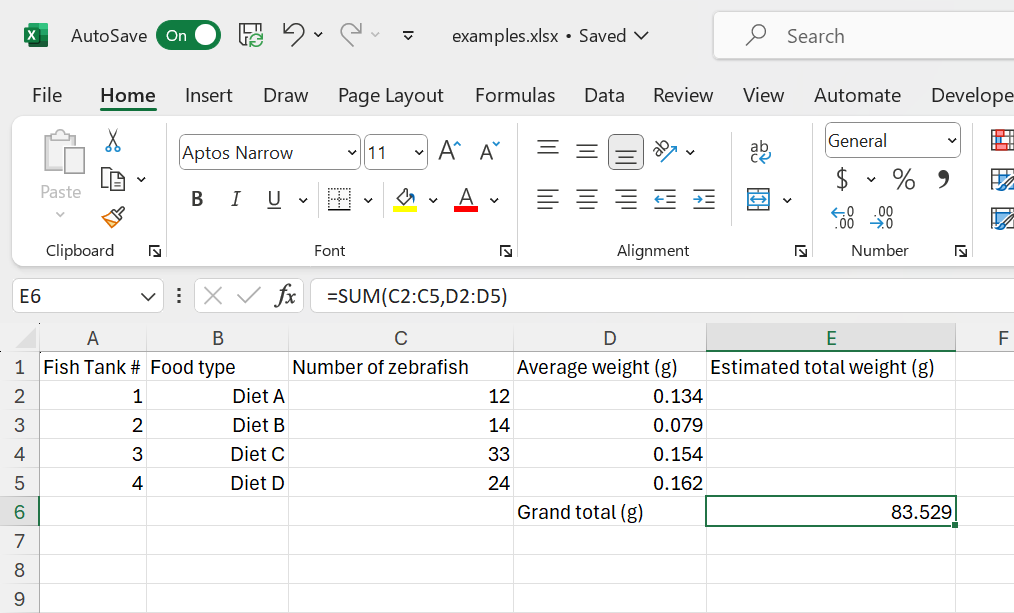
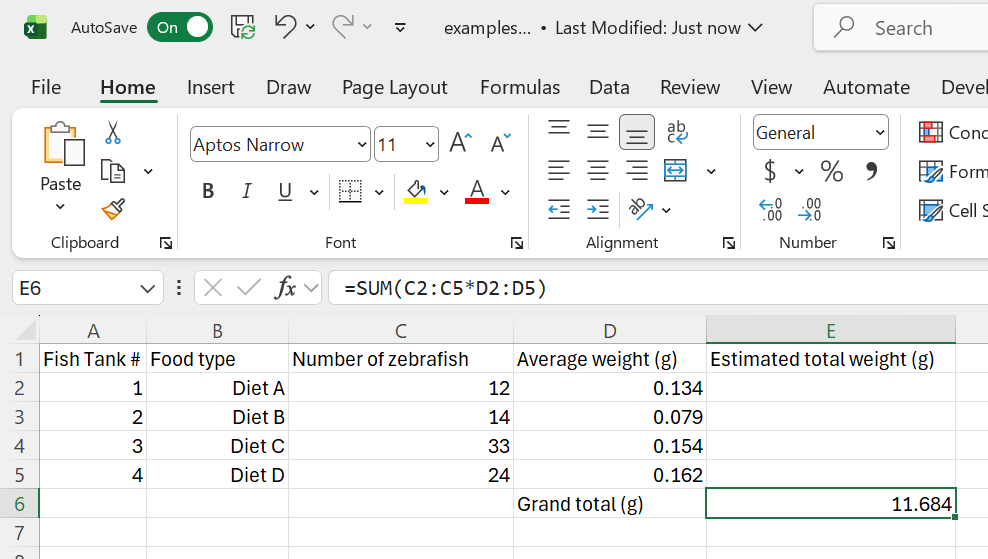
fixes

diff --git a/excel/excel_08_data_analysis.md b/excel/excel_08_data_analysis.md
@@ -159,6 +159,8 @@ When you separate the analysis from the data, selecting ranges will be quite cum
 
 Instead of typing or clicking a lot you can assign variable names to selections and store them in memory. See [this link](https://support.microsoft.com/en-us/office/create-a-named-range-from-selected-cells-in-an-excel-worksheet-fd8905ed-1130-4cca-9bb0-ad02b7e594fd). Once you assigned a variable name for a range, you can simply type the (short) variable name instead of clicking a lot (or typing a lot). On the `Formulas` tab, you can click the `Name Manager` to get an overview of all the assigned selections and also rename them.
 
+You can find more information about named ranges and the name manager on the [Microsoft Excel webpage](https://support.microsoft.com/en-us/excel/use-the-name-manager-in-excel).
+
 >When you import csv files using Power Query, Excel will automatically assign a selection name for the whole table. You can rename this selection under `Formulas > Name Manager`.
 
 ## Array formulas
@@ -263,74 +265,75 @@ These are just some examples. Use the online resources or the recommended Excel 
 
 ## List of functions
 
-This course will familiarize you with using Excel functions. While this [link](https://support.microsoft.com/en-us/office/excel-functions-alphabetical-b3944572-255d-4efb-bb96-c6d90033e188) provides a comprehensive list of all Excel functions, the functions listed below are mandatory for this course and you must master them. Learning these core functions will make it easier to understand and use others. Practice these essential functions with small datasets to build your skills. Since, this is not a statistics oriented course, many statistical functions are omitted (e.g. T.TEST).
+This course will familiarize you with using Excel functions. This [link](https://support.microsoft.com/en-us/office/excel-functions-alphabetical-b3944572-255d-4efb-bb96-c6d90033e188) provides a comprehensive list of all Excel functions (for some functions also short movie tutorials). The functions listed below in bold are mandatory for this course and you must master them. Learning these core functions will make it easier to understand and use others. Practice these essential functions with small datasets to build your skills. Since, this is not a statistics oriented course, many statistical functions are omitted (e.g. T.TEST).
 
 | **Function**   | **Explanation**                                                                                                                                                                 |
 |----------------|---------------------------------------------------------------------------------------------------------------------------------------------------------------------------------|
 | ABS            | Returns the absolute value of a number                                                                                                                                          |
-| AND            | Returns TRUE if all of its arguments are TRUE                                                                                                                                   |
-| AVERAGE        | Returns the average of its arguments                                                                                                                                            |
-| AVERAGEIF      | Returns the average (arithmetic mean) of all the cells in a range that meet a given criteria                                                                                    |
-| AVERAGEIFS     | Returns the average (arithmetic mean) of all cells that meet multiple criteria.                                                                                                 |
+| **AND**            | Returns TRUE if all of its arguments are TRUE                                                                                                                                   |
+| **AVERAGE**        | Returns the average of its arguments                                                                                                                                            |
+| **AVERAGEIF**      | Returns the average (arithmetic mean) of all the cells in a range that meet a given criteria                                                                                    |
+| **AVERAGEIFS**     | Returns the average (arithmetic mean) of all cells that meet multiple criteria.                                                                                                 |
 | CELL           | Returns information about the formatting, location, or contents of a cell                                                                                                       |
 | CLEAN          | Removes all nonprintable characters from text                                                                                                                                   |
-| CONCATENATE    | Joins several text items into one text item                                                                                                                                     |
-| COUNT          | Counts how many numbers are in the list of arguments                                                                                                                            |
-| COUNTA         | Counts how many values are in the list of arguments                                                                                                                             |
-| COUNTBLANK     | Counts the number of blank cells within a range                                                                                                                                 |
-| COUNTIF        | Counts the number of cells within a range that meet the given criteria                                                                                                          |
-| COUNTIFS       | Counts the number of cells within a range that meet multiple criteria                                                                                                           |
+| **CONCATENATE**    | Joins several text items into one text item                                                                                                                                     |
+| **COUNT**          | Counts how many numbers are in the list of arguments                                                                                                                            |
+| **COUNTA**         | Counts how many values are in the list of arguments                                                                                                                             |
+| **COUNTBLANK**     | Counts the number of blank cells within a range                                                                                                                                 |
+| **COUNTIF**        | Counts the number of cells within a range that meet the given criteria                                                                                                          |
+| **COUNTIFS**       | Counts the number of cells within a range that meet multiple criteria                                                                                                           |
 | DATEDIF        | Calculates the number of days, months, or years between two dates. This function is useful in formulas where you need to calculate an age.                                      |
-| FIND           | Finds one text value within another (case-sensitive)                                                                                                                            |
+|**FILTER**          | Lookup and reference: Filters a range of data based on criteria you define   |
+| **FIND**           | Finds one text value within another (case-sensitive)                                                                                                                            |
 | FLOOR          | Rounds a number down, toward zero                                                                                                                                               |
-| IF             | Specifies a logical test to perform                                                                                                                                             |
+| **IF**             | Specifies a logical test to perform                                                                                                                                             |
 | IFNA           | Returns the value you specify if the expression resolves to #N/A, otherwise returns the result of the expression                                                                |
 | INDEX          | Uses an index to choose a value from a reference or array                                                                                                                       |
-| ISBLANK        | Returns TRUE if the value is blank                                                                                                                                              |
+| **ISBLANK**        | Returns TRUE if the value is blank                                                                                                                                              |
 | ISNA           | Returns TRUE if the value is the #N/A error value                                                                                                                               |
 | ISNUMBER       | Returns TRUE if the value is a number                                                                                                                                           |
-| LEFT           | Returns the leftmost characters from a text value                                                                                                                               |
+| **LEFT**           | Returns the leftmost characters from a text value                                                                                                                               |
 | LEN            | Returns the number of characters in a text string                                                                                                                               |
-| LN             | Returns the natural logarithm of a number                                                                                                                                       |
-| LOG            | Returns the logarithm of a number to a specified base                                                                                                                           |
-| LOG10          | Returns the base-10 logarithm of a number                                                                                                                                       |
+| **LN**             | Returns the natural logarithm of a number                                                                                                                                       |
+| **LOG**            | Returns the logarithm of a number to a specified base                                                                                                                           |
+| **LOG10**          | Returns the base-10 logarithm of a number                                                                                                                                       |
 | LOWER          | Converts text to lowercase                                                                                                                                                      |
 | MATCH          | Looks up values in a reference or array                                                                                                                                         |
-| MAX            | Returns the maximum value in a list of arguments                                                                                                                                |
-| MAXIFS         | Returns the maximum value among cells specified by a given set of conditions or criteria                                                                                        |
-| MEDIAN         | Returns the median of the given numbers                                                                                                                                         |
-| MIN            | Returns the minimum value in a list of arguments                                                                                                                                |
-| MINIFS         | Returns the minimum value among cells specified by a given set of conditions or criteria.                                                                                       |
+| **MAX**            | Returns the maximum value in a list of arguments                                                                                                                                |
+| **MAXIFS**         | Returns the maximum value among cells specified by a given set of conditions or criteria                                                                                        |
+| **MEDIAN**         | Returns the median of the given numbers                                                                                                                                         |
+| **MIN**            | Returns the minimum value in a list of arguments                                                                                                                                |
+| **MINIFS**         | Returns the minimum value among cells specified by a given set of conditions or criteria.                                                                                       |
 | NA             | Returns the error value #N/A                                                                                                                                                    |
-| OR             | Returns TRUE if any argument is TRUE                                                                                                                                            |
+| **OR**             | Returns TRUE if any argument is TRUE                                                                                                                                            |
 | PERCENTILE.EXC | Returns the k-th percentile of values in a range, where k is in the range 0..1, exclusive                                                                                       |
 | PERCENTILE.INC | Returns the k-th percentile of values in a range                                                                                                                                |
-| POWER          | Returns the result of a number raised to a power                                                                                                                                |
+| **POWER**          | Returns the result of a number raised to a power                                                                                                                                |
 | RANDBETWEEN    | Returns a random number between the numbers you specify                                                                                                                         |
 | RANK           | Returns the rank of a number in a list of numbers                                                                                                                               |
-| RIGHT          | Returns the rightmost characters from a text value                                                                                                                              |
+| **RIGHT**          | Returns the rightmost characters from a text value                                                                                                                              |
 | ROUND          | Rounds a number to a specified number of digits                                                                                                                                 |
 | ROUNDDOWN      | Rounds a number down, toward zero                                                                                                                                               |
 | ROUNDUP        | Rounds a number up, away from zero                                                                                                                                              |
 | ROW            | Returns the row number of a reference                                                                                                                                           |
 | ROWS           | Returns the number of rows in a reference                                                                                                                                       |
-| SORT           | Sorts the contents of a range or array                                                                                                                                          |
-| SQRT           | Returns a positive square root                                                                                                                                                  |
-| STDEV.P        | Calculates standard deviation based on the entire population                                                                                                                    |
-| STDEV.S        | Estimates standard deviation based on a sample                                                                                                                                  |
-| SUM            | Adds its arguments                                                                                                                                                              |
-| SUMIF          | Adds the cells specified by a given criteria                                                                                                                                    |
-| SUMIFS         | Adds the cells in a range that meet multiple criteria                                                                                                                           |
+| **SORT**           | Sorts the contents of a range or array                                                                                                                                          |
+| **SQRT**           | Returns a positive square root                                                                                                                                                  |
+| **STDEV.P**        | Calculates standard deviation based on the entire population                                                                                                                    |
+| **STDEV.S**        | Estimates standard deviation based on a sample                                                                                                                                  |
+| **SUM**            | Adds its arguments                                                                                                                                                              |
+| **SUMIF**          | Adds the cells specified by a given criteria                                                                                                                                    |
+| **SUMIFS**         | Adds the cells in a range that meet multiple criteria                                                                                                                           |
 | TEXT           | Formats a number and converts it to text                                                                                                                                        |
 | TEXTJOIN       | Combines the text from multiple ranges and/or strings                                                                                                                           |
 | TEXTSPLIT      | Splits text strings by using column and row delimiters                                                                                                                          |
-| TRANSPOSE      | Returns the transpose of an array                                                                                                                                               |
-| TRIM           | Removes spaces from text                                                                                                                                                        |
-| TRUE           | Returns the logical value TRUE                                                                                                                                                  |
-| UNIQUE         | Returns a list of unique values in a list or range                                                                                                                              |
+| **TRANSPOSE**      | Returns the transpose of an array                                                                                                                                               |
+| **TRIM**           | Removes spaces from text                                                                                                                                                        |
+| **TRUE**           | Returns the logical value TRUE                                                                                                                                                  |
+| **UNIQUE**         | Returns a list of unique values in a list or range                                                                                                                              |
 | UPPER          | Converts text to uppercase                                                                                                                                                      |
 | VALUE          | Converts a text argument to a number                                                                                                                                            |
-| XLOOKUP        | Searches a range or an array, and returns an item corresponding to the first match it finds. If a match doesn't exist, then XLOOKUP can return the closest (approximate) match. |
+| **XLOOKUP**        | Searches a range or an array, and returns an item corresponding to the first match it finds. If a match doesn't exist, then XLOOKUP can return the closest (approximate) match. |
 
 
 ## Statistics
